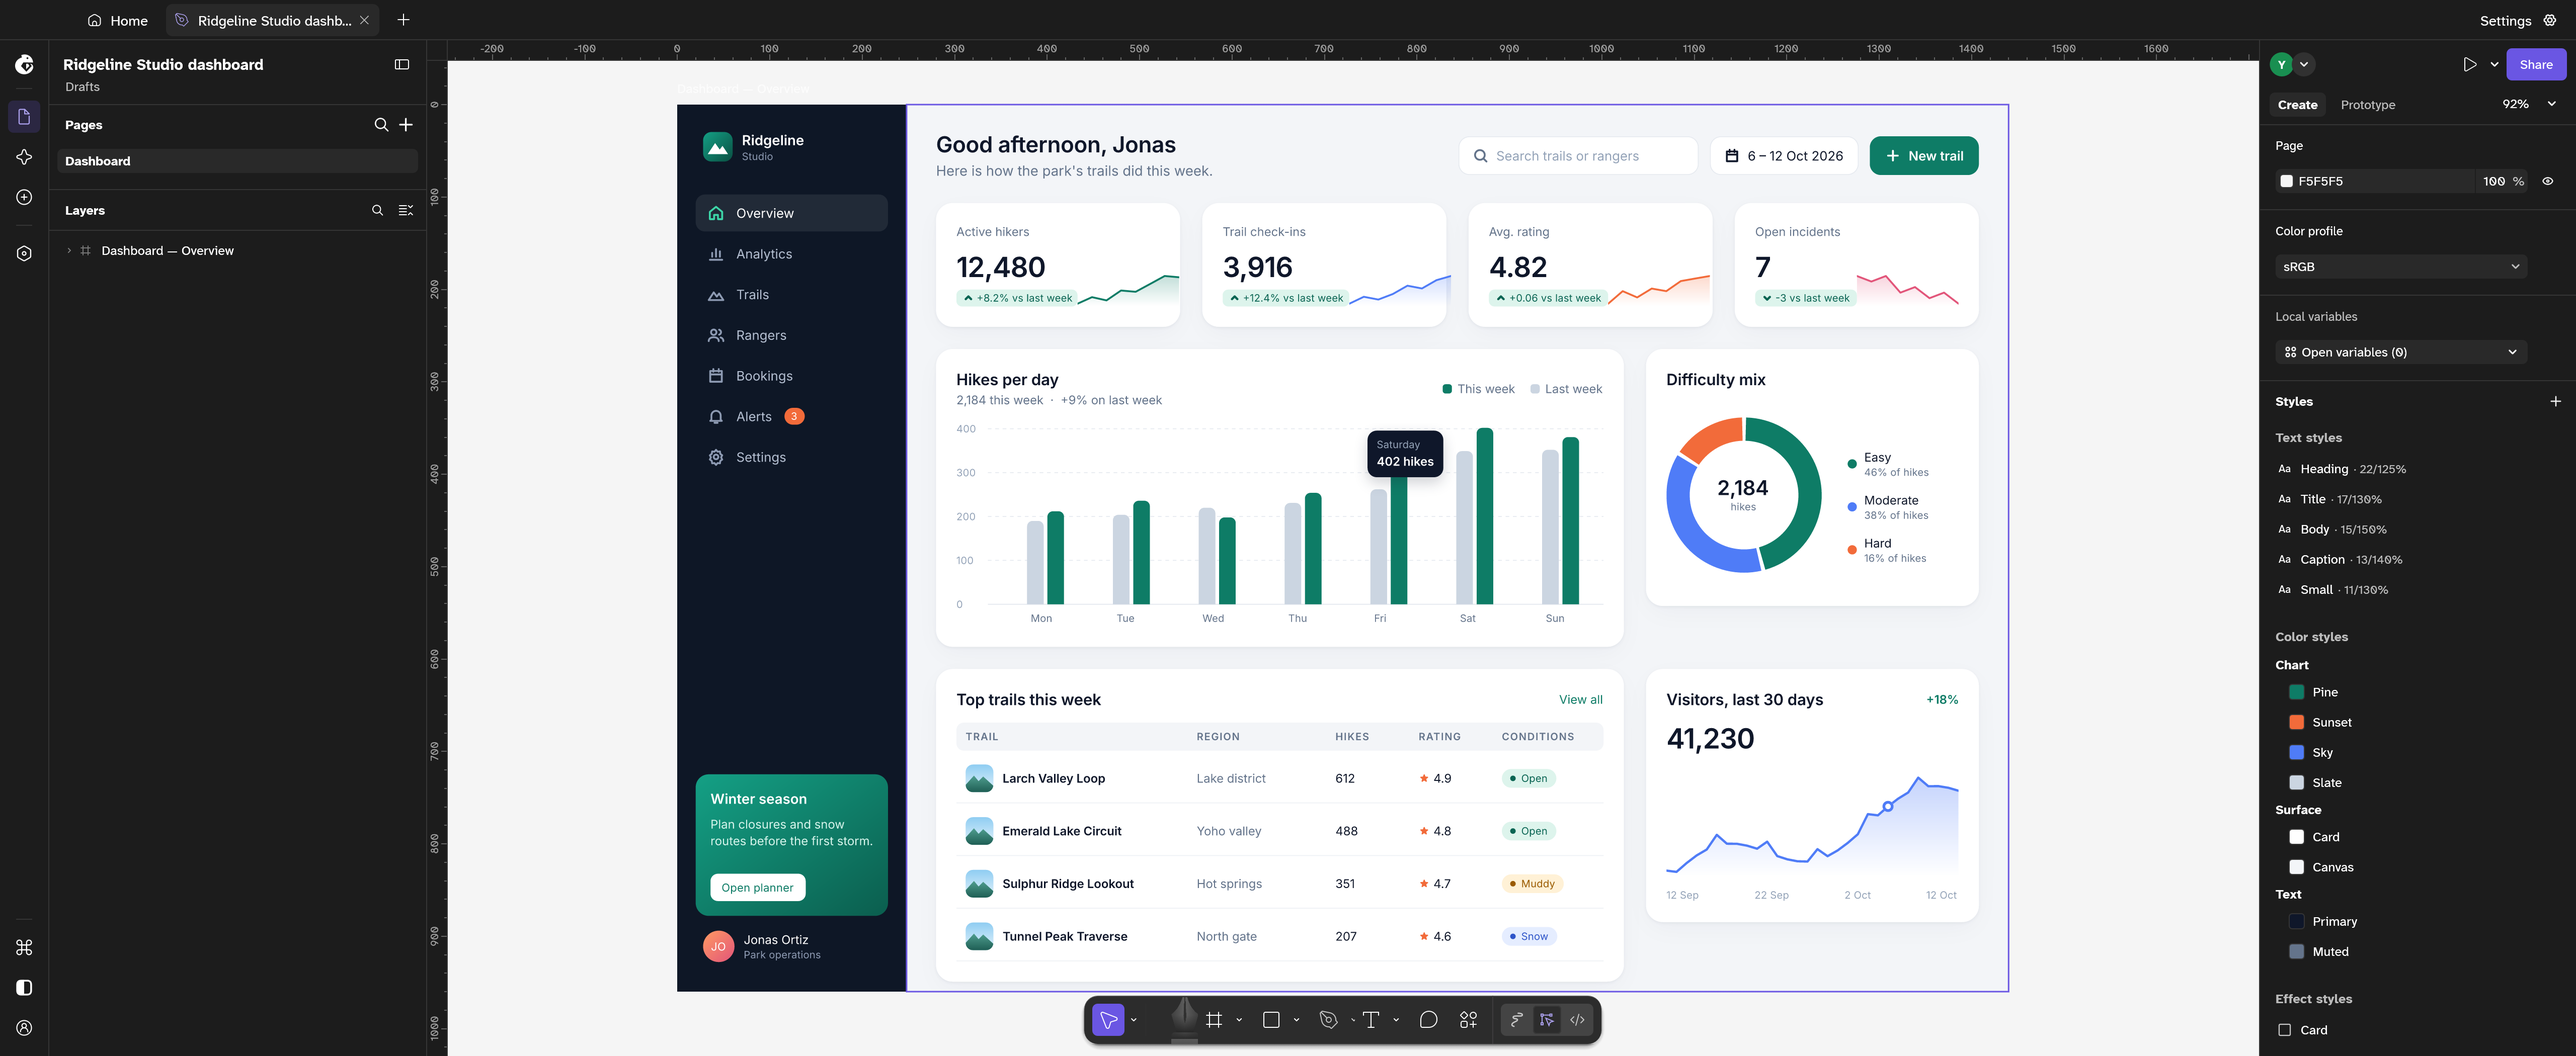
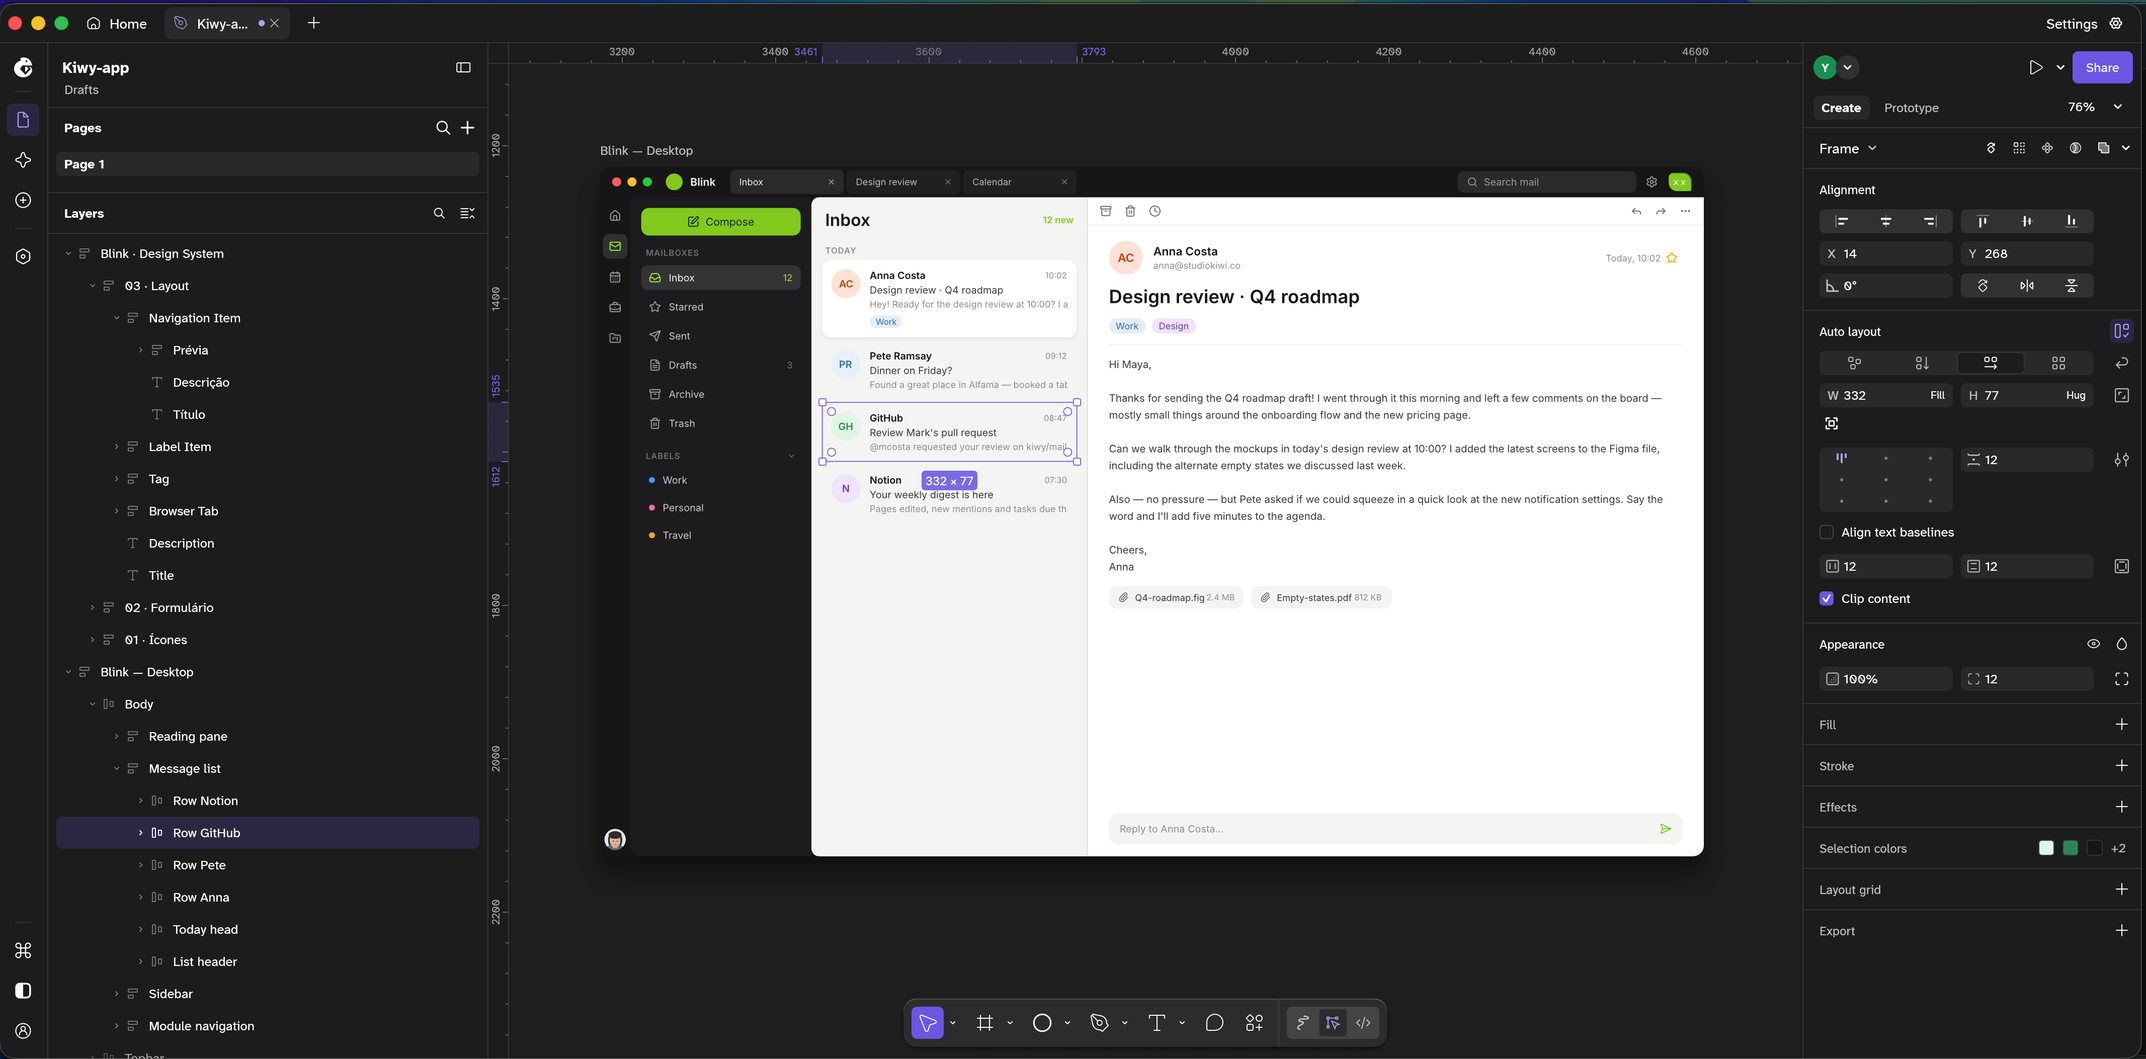
docs: update Lizard README screenshot

diff --git a/README.md b/README.md
@@ -6,7 +6,7 @@
 
 Lizard has a vector canvas, auto layout, components, styles, prototyping, plugins, and an agent panel that works with the open document. It is an independent continuation of earlier open-source work. The original contributors retain their credits and copyrights; see [contributors](contributors/contributors.json), [NOTICE](NOTICE), [LICENSE-MIT](LICENSE-MIT), and [LICENSE-APACHE](LICENSE-APACHE).
 
-![Lizard editor in dark mode with the Ridgeline Studio dashboard open](assets/screenshots/editor-dark.png)
+![Lizard editor in dark mode with a Blink desktop email design open](assets/screenshots/editor-dark.png)
 
 ## Download
 
